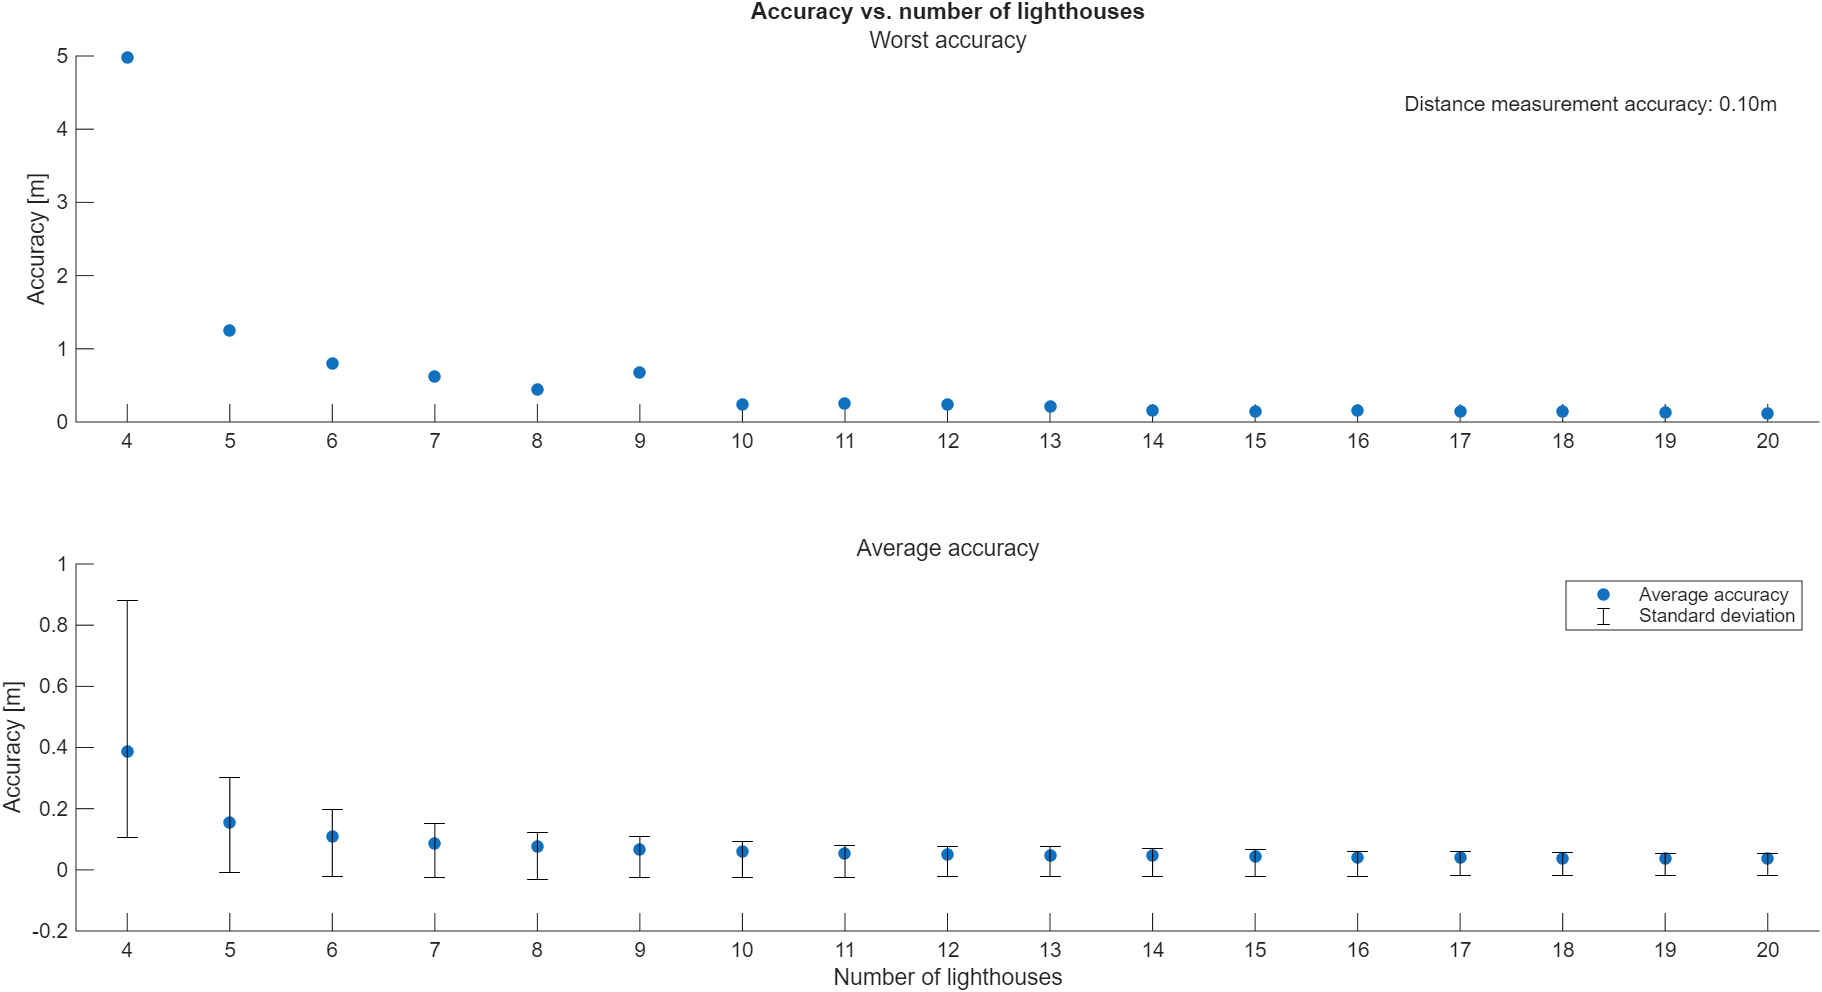
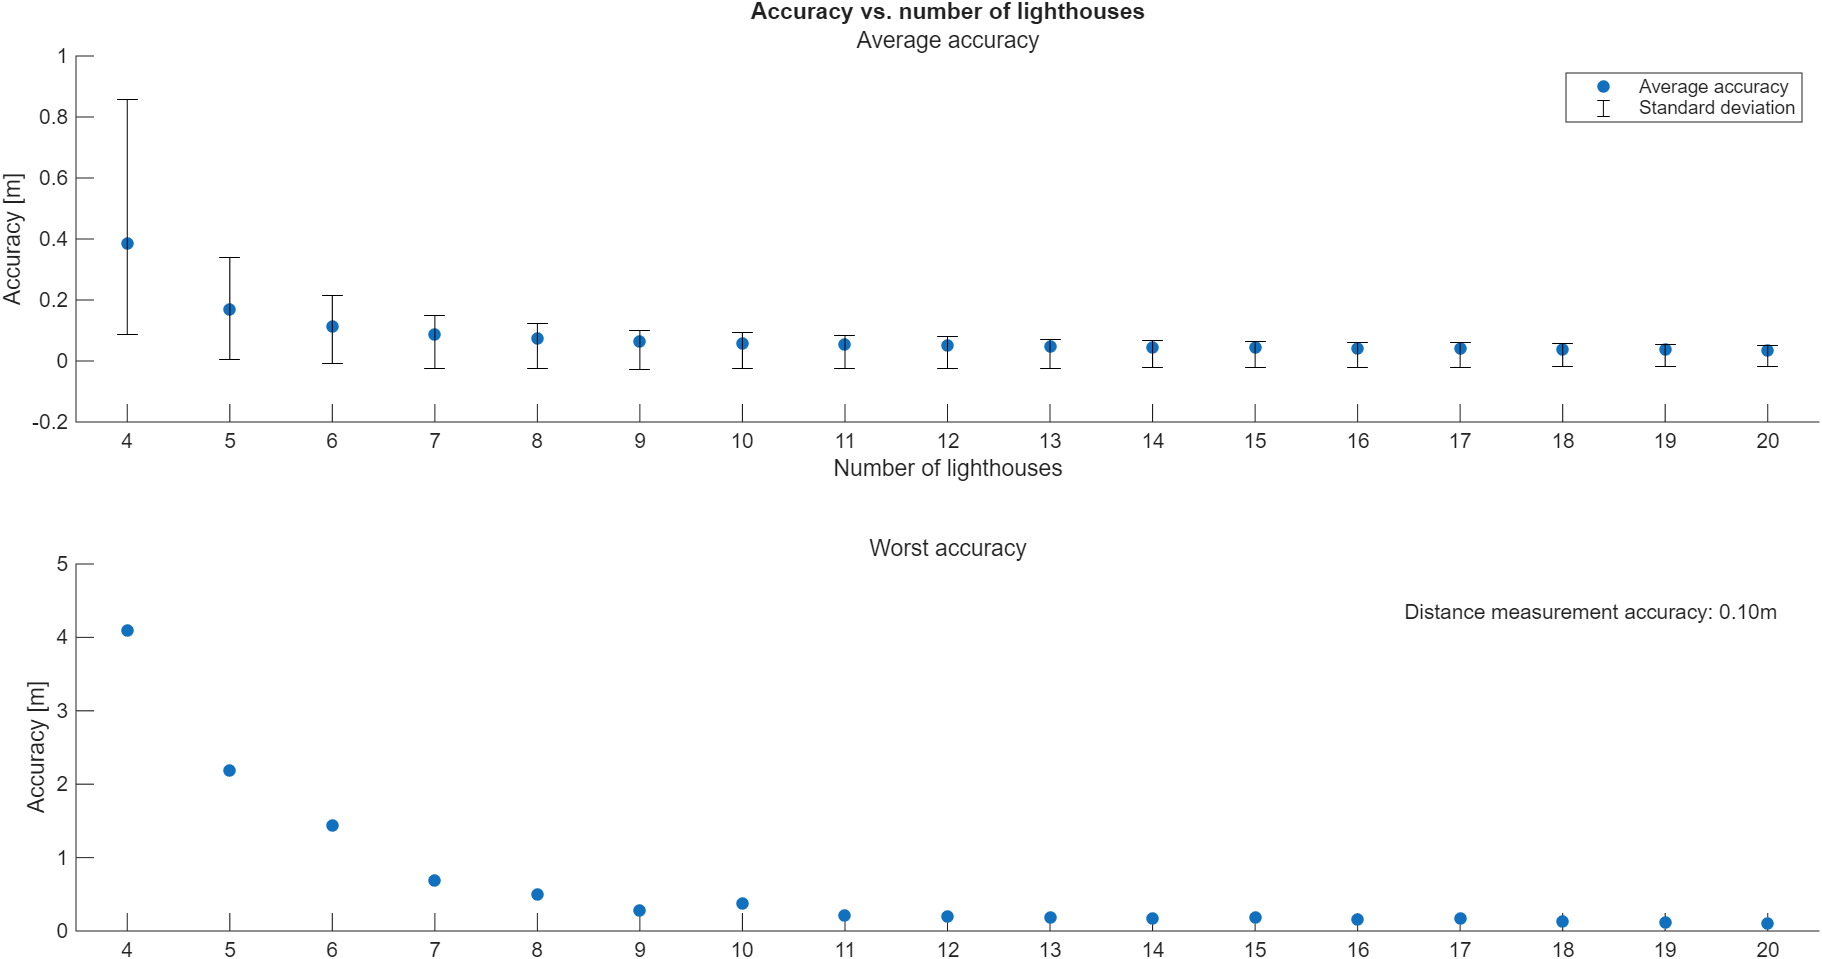
Created README for simulations

diff --git a/Simulations/MATLAB/Accuracy_Vs_Number_Of_Lighthouses.m b/Simulations/MATLAB/Accuracy_Vs_Number_Of_Lighthouses.m
@@ -27,9 +27,8 @@ for n=1:N
 end
 
 figure;
-subplot(2, 1, 1);
+subplot(2, 1, 2);
 scatter(N_vec, worst_accuracies, "o", "filled");
-title("Accuracy vs. number of lighthouses")
 xticks(N_vec);
 xlim([least_lighthouses-0.5, most_lighthouses+0.5]);
 subtitle("Worst accuracy");
@@ -45,8 +44,9 @@ text(0.98*xl(2), 0.9*yl(2), info_str, ...
 ylabel("Accuracy [m]");
 
 
-subplot(2, 1, 2);
+subplot(2, 1, 1);
 scatter(N_vec, average_accuracies, 'o', "filled");
+title("Accuracy vs. number of lighthouses")
 hold on;
 errorbar(N_vec, std_deviations, average_accuracies, 'LineStyle', 'none', 'Color', 'k', 'CapSize', 10);
 

diff --git a/Simulations/README.md b/Simulations/README.md
@@ -1,0 +1,41 @@
+# Simulations
+This subproject contains simulation resources for the UWB positioning system.
+
+## Table of contents
+
+## General information
+- Simulations allow analysis of the positioning system in different setups
+- 2D and 3D visualizations help understand the effectiveness of the process
+
+## Example
+In the following example, the default setup of the positioning system has been simulated, that is:
+- single distance measurement accuracy is set to 0.10 meters
+- lighthouses are placed no more than 5 meters from the origin
+- lighthouses are placed no less than 0.5 meters from each other
+
+### Accuracy vs. number of lighthouses
+Below is a plot showing how average and worst-case accuracies change with number of active lighthouses:
+
+![./Pictures/Accuracy_Vs_Number_Of_Lighthouses.png](./Pictures/Accuracy_Vs_Number_Of_Lighthouses.png)
+
+We see that the effectiveness improves with more and more anchors. Five anchors seems as an optimal choice, in the sense that it provides good accuracy with fewer hardware elements.
+
+### Accuracy distribution
+Below is a histogram that shows what kind of position accuracy distribution can we expect, when four lighthouses are placed randomly (while still meeting requirements from the [Example](#example) section).
+
+![./Pictures/Accuracy_Analysis.png](./Pictures/Accuracy_Analysis.png)
+
+Numerical data:
+- Average accuracy: 0.37m
+- Standard deviation: 0.47m
+- Most common accuracy interval: [0.10m, 0.20m]
+- Worst accuracy: 5.10m
+
+We conclude that the overall accuracy distribution is satisfactory. Poor position estimates occur infrequently.
+
+### Visualizations
+Here, the 2D and 3D visualizations are presented.
+
+![./Pictures/2D_Visualization.png](./Pictures/2D_Visualization.png)
+
+![./Pictures/3D_Visualization.png](./Pictures/3D_Visualization.png)

diff --git a/README.md b/README.md
@@ -13,16 +13,17 @@ Implemented software, hardware and simulation.
 Author: Arkadiusz Rozmarynowicz.
 
 ## Table of contents
-* [General info](#general-info)
+* [General information](#general-information)
 * [Project structure](#project-structure)
 * [Important note](#important-note)
 * [Effectiveness](#effectiveness)
+* [Naming convention](#naming-convention)
 * [Technologies](#technologies)
 * [Setup](#setup)
 * [Roadmap](#roadmap)
 * [Future](#future)
 
-## General info
+## General information
 - A communication system consisting of a moving tag and at least four ranging anchors.
 - The tag and anchors are based on an DWM1000 ranging module and an ESP32.
 - The anchors automatically determine their relative position on start-up.
@@ -42,6 +43,9 @@ As the project has been developed by me logged into a different account, the maj
 
 ## Effectiveness
 The system allows for positioning a slow-moving tag with an accuracy better than 25 centimeters. Effectiveness with a fast-moving tag has not yet been tested (see [roadmap](#roadmap)).
+
+## Naming convention
+The anchors are also referred to as "lighthouses", and the tag is also referred to as an "observer".
 
 ## Technologies
 Programming languages: